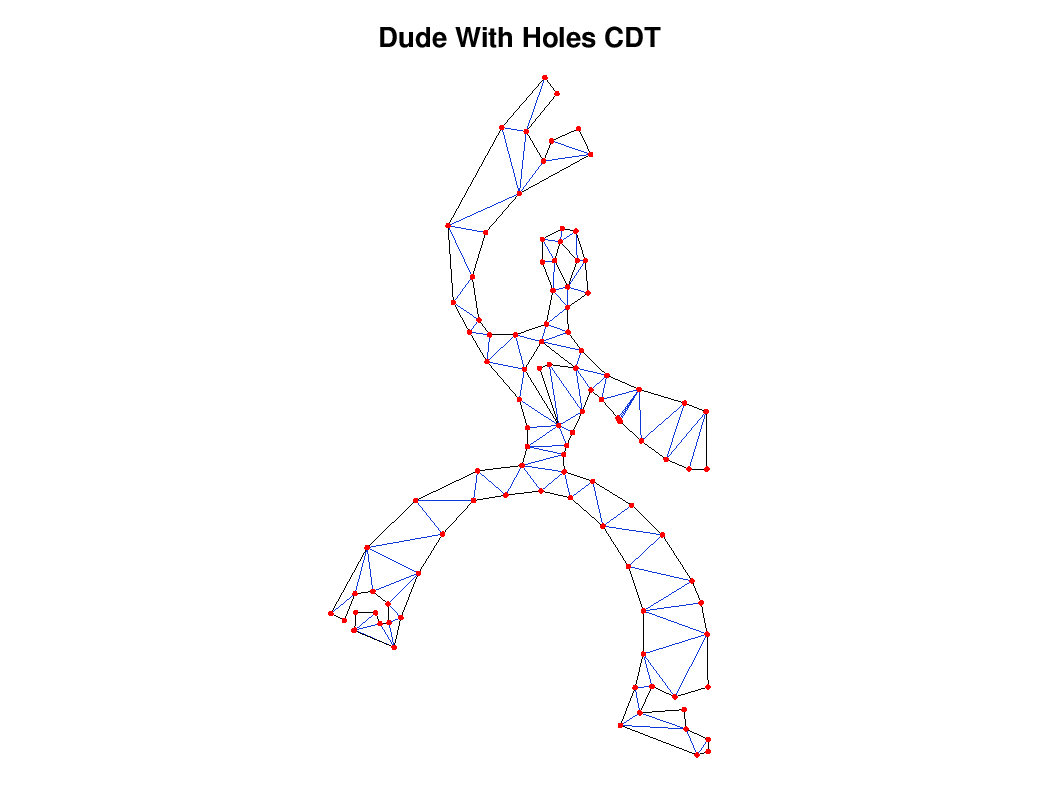
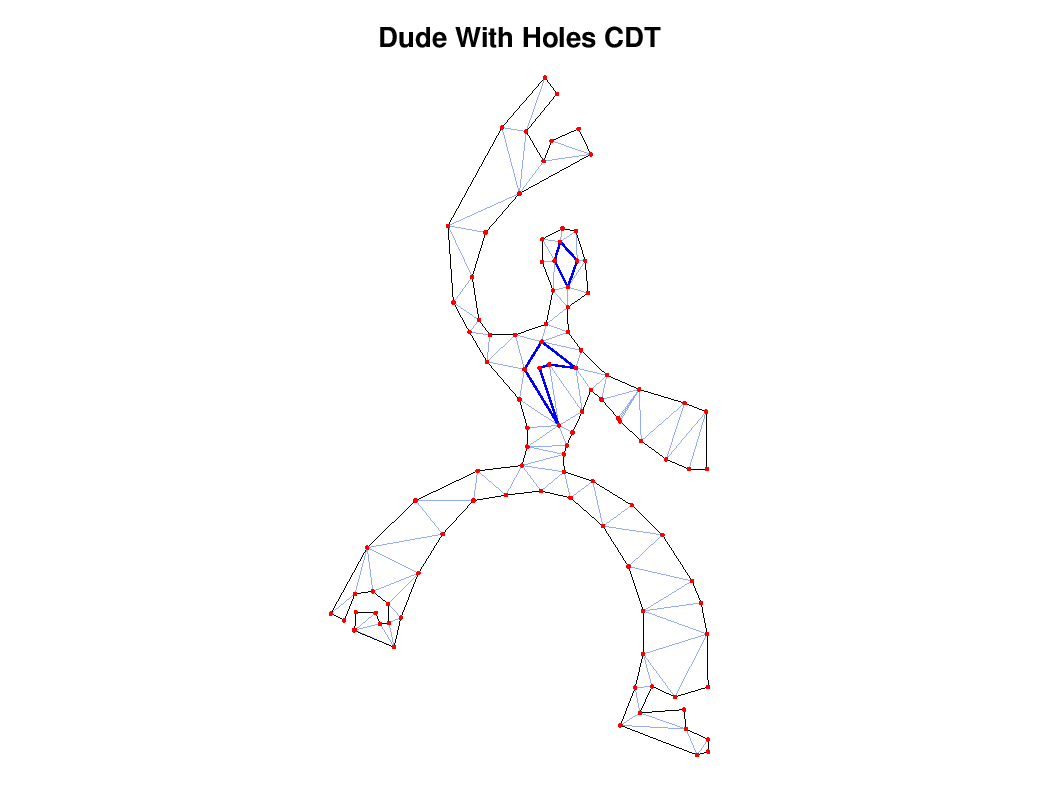
Highlight hole contours in README plot

Changed region(s): [[0.49, 0.428, 0.5818, 0.5503], [0.5206, 0.3057, 0.5512, 0.3669], [0.5818, 0.4892, 0.6124, 0.5197]]

diff --git a/examples/render_readme_hero.m b/examples/render_readme_hero.m
@@ -12,23 +12,37 @@ function render_readme_hero (out_path)
   [tri, vertices, boundary_edges] = cdt (polygon, [], [], ...
                                          struct ("keep_boundary_edges", true));
   vertices = rotate_180 (vertices);
+  outer_count = first_ring_count (polygon);
 
   figure (1, "visible", "off");
   clf;
-  cdt_plot (tri, vertices, "color", [0.05 0.22 0.85]);
+  cdt_plot (tri, vertices, "color", [0.58 0.68 0.95]);
   hold on;
 
   for i = 1:rows (boundary_edges)
     edge = boundary_edges(i, :);
-    plot (vertices(edge, 1), vertices(edge, 2), "k-", "linewidth", 1.4);
+    if (all (edge <= outer_count))
+      plot (vertices(edge, 1), vertices(edge, 2), "k-", "linewidth", 1.4);
+    else
+      plot (vertices(edge, 1), vertices(edge, 2), "b-", "linewidth", 2.0);
+    endif
   endfor
 
-  plot (vertices(:, 1), vertices(:, 2), "r.", "markersize", 5);
+  plot (vertices(:, 1), vertices(:, 2), "r.", "markersize", 4);
   axis off;
   title ("Dude With Holes CDT");
   hold off;
 
   print ("-dpng", "-r180", out_path);
+endfunction
+
+function n = first_ring_count (polygon)
+  sep = find (all (isnan (polygon), 2), 1);
+  if (isempty (sep))
+    n = rows (polygon);
+  else
+    n = sep - 1;
+  endif
 endfunction
 
 function rotated = rotate_180 (points)
@@ -38,4 +52,3 @@ function rotated = rotate_180 (points)
   rotated(:, 1) = 2 * center(1) - points(:, 1);
   rotated(:, 2) = 2 * center(2) - points(:, 2);
 endfunction
-
